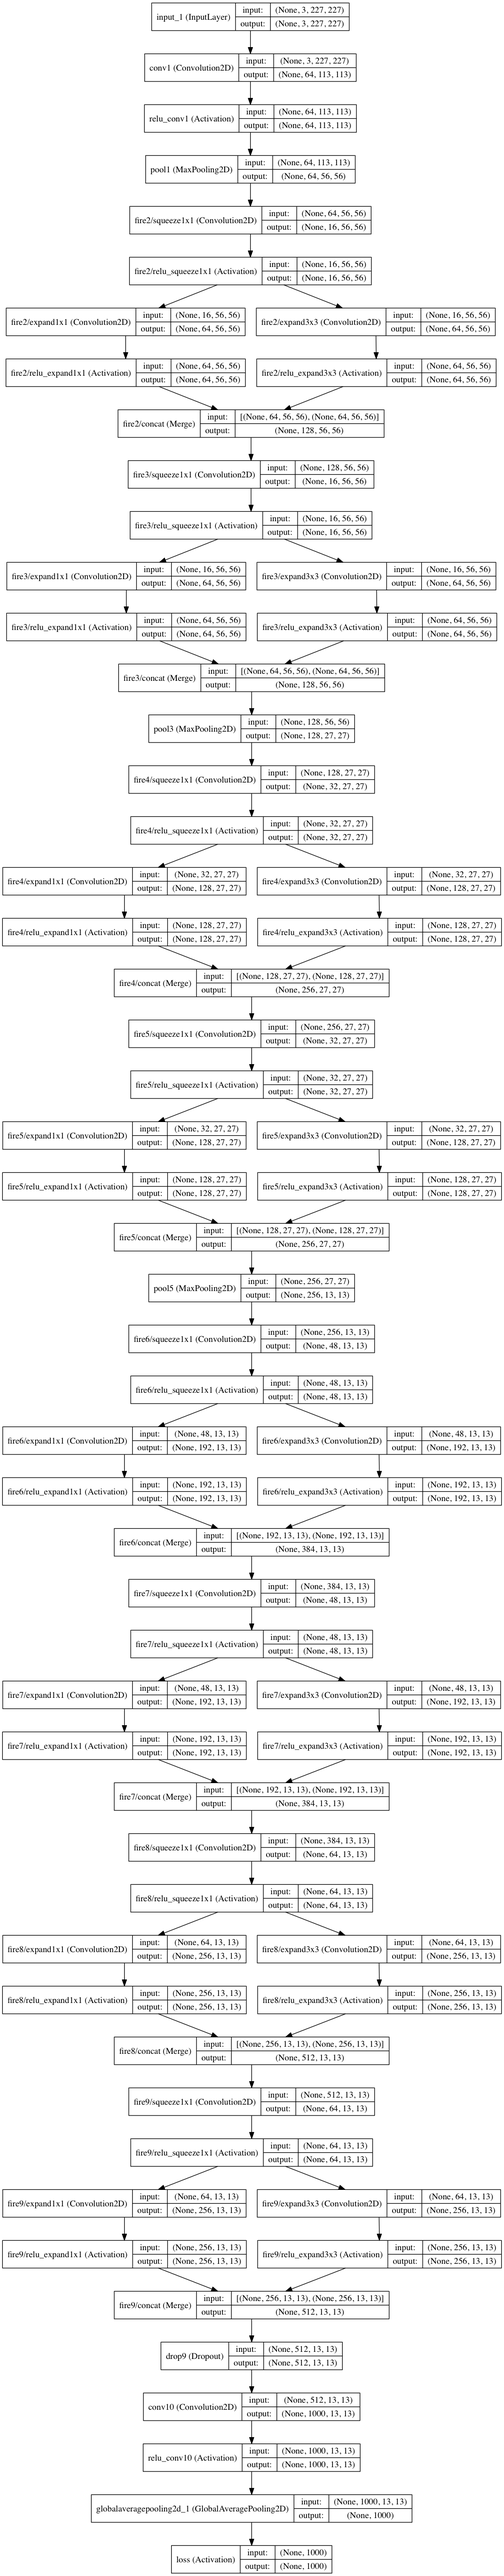
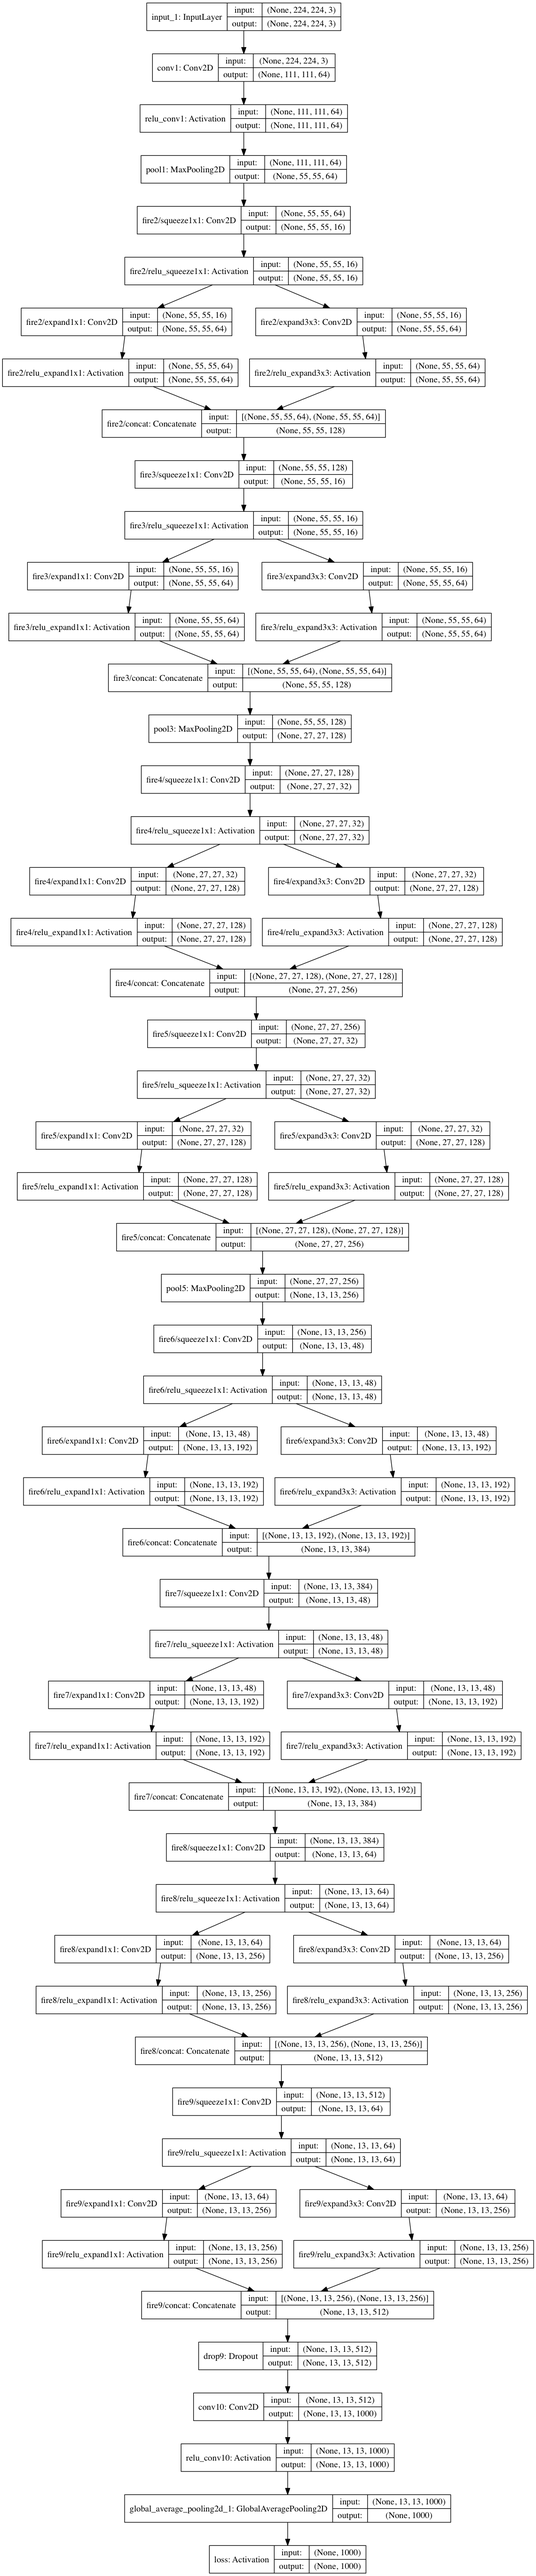
new release

diff --git a/keras_squeezenet/squeezenet.py b/keras_squeezenet/squeezenet.py
@@ -1,0 +1,128 @@
+from keras.applications.imagenet_utils import _obtain_input_shape
+from keras import backend as K
+from keras.layers import Input, Convolution2D, MaxPooling2D, Activation, concatenate, Dropout, GlobalAveragePooling2D, \
+    warnings
+from keras.models import Model
+from keras.engine.topology import get_source_inputs
+from keras.utils import get_file
+from keras.utils import layer_utils
+
+sq1x1 = "squeeze1x1"
+exp1x1 = "expand1x1"
+exp3x3 = "expand3x3"
+relu = "relu_"
+
+WEIGHTS_PATH = "https://github.com/rcmalli/keras-squeezenet/releases/download/v1.0/squeezenet_weights_tf_dim_ordering_tf_kernels.h5"
+
+# Modular function for Fire Node
+
+def fire_module(x, fire_id, squeeze=16, expand=64):
+    s_id = 'fire' + str(fire_id) + '/'
+
+    if K.image_data_format() == 'channels_first':
+        channel_axis = 1
+    else:
+        channel_axis = 3
+    
+    x = Convolution2D(squeeze, (1, 1), padding='valid', name=s_id + sq1x1)(x)
+    x = Activation('relu', name=s_id + relu + sq1x1)(x)
+
+    left = Convolution2D(expand, (1, 1), padding='valid', name=s_id + exp1x1)(x)
+    left = Activation('relu', name=s_id + relu + exp1x1)(left)
+
+    right = Convolution2D(expand, (3, 3), padding='same', name=s_id + exp3x3)(x)
+    right = Activation('relu', name=s_id + relu + exp3x3)(right)
+
+    x = concatenate([left, right], axis=channel_axis, name=s_id + 'concat')
+    return x
+
+
+# Original SqueezeNet from paper.
+
+def SqueezeNet(input_tensor=None, input_shape=None,
+               weights='imagenet',
+               classes=1000):
+    
+
+        
+    if weights not in {'imagenet', None}:
+        raise ValueError('The `weights` argument should be either '
+                         '`None` (random initialization) or `imagenet` '
+                         '(pre-training on ImageNet).')
+
+    if weights == 'imagenet' and classes != 1000:
+        raise ValueError('If using `weights` as imagenet with `include_top`'
+                         ' as true, `classes` should be 1000')
+
+
+    input_shape = _obtain_input_shape(input_shape,
+                                      default_size=227,
+                                      min_size=48,
+                                      data_format=K.image_data_format(),
+                                      include_top=True)
+
+    if input_tensor is None:
+        img_input = Input(shape=input_shape)
+    else:
+        if not K.is_keras_tensor(input_tensor):
+            img_input = Input(tensor=input_tensor, shape=input_shape)
+        else:
+            img_input = input_tensor
+
+
+    x = Convolution2D(64, (3, 3), strides=(2, 2), padding='valid', name='conv1')(img_input)
+    x = Activation('relu', name='relu_conv1')(x)
+    x = MaxPooling2D(pool_size=(3, 3), strides=(2, 2), name='pool1')(x)
+
+    x = fire_module(x, fire_id=2, squeeze=16, expand=64)
+    x = fire_module(x, fire_id=3, squeeze=16, expand=64)
+    x = MaxPooling2D(pool_size=(3, 3), strides=(2, 2), name='pool3')(x)
+
+    x = fire_module(x, fire_id=4, squeeze=32, expand=128)
+    x = fire_module(x, fire_id=5, squeeze=32, expand=128)
+    x = MaxPooling2D(pool_size=(3, 3), strides=(2, 2), name='pool5')(x)
+
+    x = fire_module(x, fire_id=6, squeeze=48, expand=192)
+    x = fire_module(x, fire_id=7, squeeze=48, expand=192)
+    x = fire_module(x, fire_id=8, squeeze=64, expand=256)
+    x = fire_module(x, fire_id=9, squeeze=64, expand=256)
+    x = Dropout(0.5, name='drop9')(x)
+
+    x = Convolution2D(classes, (1, 1), padding='valid', name='conv10')(x)
+    x = Activation('relu', name='relu_conv10')(x)
+    x = GlobalAveragePooling2D()(x)
+    out = Activation('softmax', name='loss')(x)
+
+    # Ensure that the model takes into account
+    # any potential predecessors of `input_tensor`.
+    if input_tensor is not None:
+        inputs = get_source_inputs(input_tensor)
+    else:
+        inputs = img_input
+
+    model = Model(inputs, out, name='squeezenet')
+
+    # load weights
+    if weights == 'imagenet':
+
+        weights_path = get_file('squeezenet_weights_tf_dim_ordering_tf_kernels.h5',
+                                    WEIGHTS_PATH,
+                                    cache_subdir='models')
+        model.load_weights(weights_path)
+        if K.backend() == 'theano':
+            layer_utils.convert_all_kernels_in_model(model)
+
+        if K.image_data_format() == 'channels_first':
+
+            if K.backend() == 'tensorflow':
+                warnings.warn('You are using the TensorFlow backend, yet you '
+                              'are using the Theano '
+                              'image data format convention '
+                              '(`image_data_format="channels_first"`). '
+                              'For best performance, set '
+                              '`image_data_format="channels_last"` in '
+                              'your Keras config '
+                              'at ~/.keras/keras.json.')
+    return model
+
+

diff --git a/examples/predict.py b/examples/predict.py
@@ -1,0 +1,23 @@
+import numpy as np
+from keras_squeezenet import SqueezeNet
+from keras.applications.imagenet_utils import preprocess_input, decode_predictions
+from keras.preprocessing import image
+import time
+
+
+if __name__ == '__main__':
+
+    model = SqueezeNet()
+    model.load_weights('../model/squeezenet_weights_tf_dim_ordering_tf_kernels.h5', by_name=True)
+
+
+    start = time.time()
+
+    img = image.load_img('../images/cat.jpeg', target_size=(227, 227))
+    x = image.img_to_array(img)
+    x = np.expand_dims(x, axis=0)
+    x = preprocess_input(x)
+
+    preds = model.predict(x)
+    duration = time.time() - start
+    print('Predicted:', decode_predictions(preds))

diff --git a/setup.py b/setup.py
@@ -1,0 +1,11 @@
+from setuptools import setup
+
+setup(name='keras_squeezenet',
+      version='0.1',
+      description='Squeezenet implementation with Keras framework',
+      url='https://github.com/rcmalli/keras-squeezenet',
+      author='Refik Can MALLI',
+      license='MIT',
+      packages=['keras_squeezenet'],
+      zip_safe=False,
+      install_requires=['numpy', 'pillow', 'tensorflow', 'keras'])

diff --git a/keras_squeezenet/__init__.py b/keras_squeezenet/__init__.py
@@ -1,0 +1,1 @@
+from squeezenet import SqueezeNet

diff --git a/README.md b/README.md
@@ -1,72 +1,45 @@
 # keras-squeezenet
-SqueezeNet v1.1 Implementation using Keras Functional Framework 1.1
+SqueezeNet v1.1 Implementation using Keras Functional Framework 2.0
 
 This [network model](https://github.com/rcmalli/keras-squeezenet/blob/master/images/SqueezeNet.png) has AlexNet accuracy with small footprint (5.1 MB)
 Pretrained models are converted from original caffe network.
 
+~~~bash
+
+pip install keras_squeezenet
+
+~~~
+
+### News
+
+- Project is now up-to-date with the new Keras version (2.0).
+
 ### Library Versions
 
-- Keras v1.1
-- Tensorflow v10
-- Theano v0.8.2
+- Keras v2.0
+- Tensorflow 1.0s
 
 ### Example Usage
 
-- Tensorflow backend with 'tf' dimension ordering
-
 ~~~python
-from scipy import misc
-import copy
-import numpy as np
-from squeezenet import get_squeezenet
 
-model = get_squeezenet(1000, dim_ordering='tf')
-model.compile(loss="categorical_crossentropy", optimizer="adam")
+import numpy as np
+from keras_squeezenet import SqueezeNet
+from keras.applications.imagenet_utils import preprocess_input, decode_predictions
+from keras.preprocessing import image
+import time
+
+model = SqueezeNet()
 model.load_weights('../model/squeezenet_weights_tf_dim_ordering_tf_kernels.h5', by_name=True)
 
-# read and prepare image input
-im = misc.imread('../images/cat.jpeg')
-im = misc.imresize(im, (227, 227)).astype(np.float32)
-aux = copy.copy(im)
-im[:, :, 0] = aux[:, :, 2]
-im[:, :, 2] = aux[:, :, 0]
+img = image.load_img('../images/cat.jpeg', target_size=(227, 227))
+x = image.img_to_array(img)
+x = np.expand_dims(x, axis=0)
+x = preprocess_input(x)
 
-# Remove image mean
-im[:, :, 0] -= 104.006
-im[:, :, 1] -= 116.669
-im[:, :, 2] -= 122.679
-im = np.expand_dims(im, axis=0)
+preds = model.predict(x)
+print('Predicted:', decode_predictions(preds))
 
-res = model.predict(im)
-~~~
-
-- Theano backend with 'th' dimension ordering
-
-~~~python
-from scipy import misc
-import copy
-import numpy as np
-from squeezenet import get_squeezenet
-
-model = get_squeezenet(1000, dim_ordering='th')
-model.compile(loss="categorical_crossentropy", optimizer="adam")
-model.load_weights('../model/squeezenet_weights_th_dim_ordering_th_kernels.h5', by_name=True)
-
-# read and prepare image input
-im = misc.imread('../images/cat.jpeg')
-im = misc.imresize(im, (227, 227)).astype(np.float32)
-aux = copy.copy(im)
-im[:, :, 0] = aux[:, :, 2]
-im[:, :, 2] = aux[:, :, 0]
-
-# Remove image mean
-im[:, :, 0] -= 104.006
-im[:, :, 1] -= 116.669
-im[:, :, 2] -= 122.679
-im = np.transpose(im, (2, 0, 1))
-im = np.expand_dims(im, axis=0)
-
-res = model.predict(im)
 ~~~
 
 
